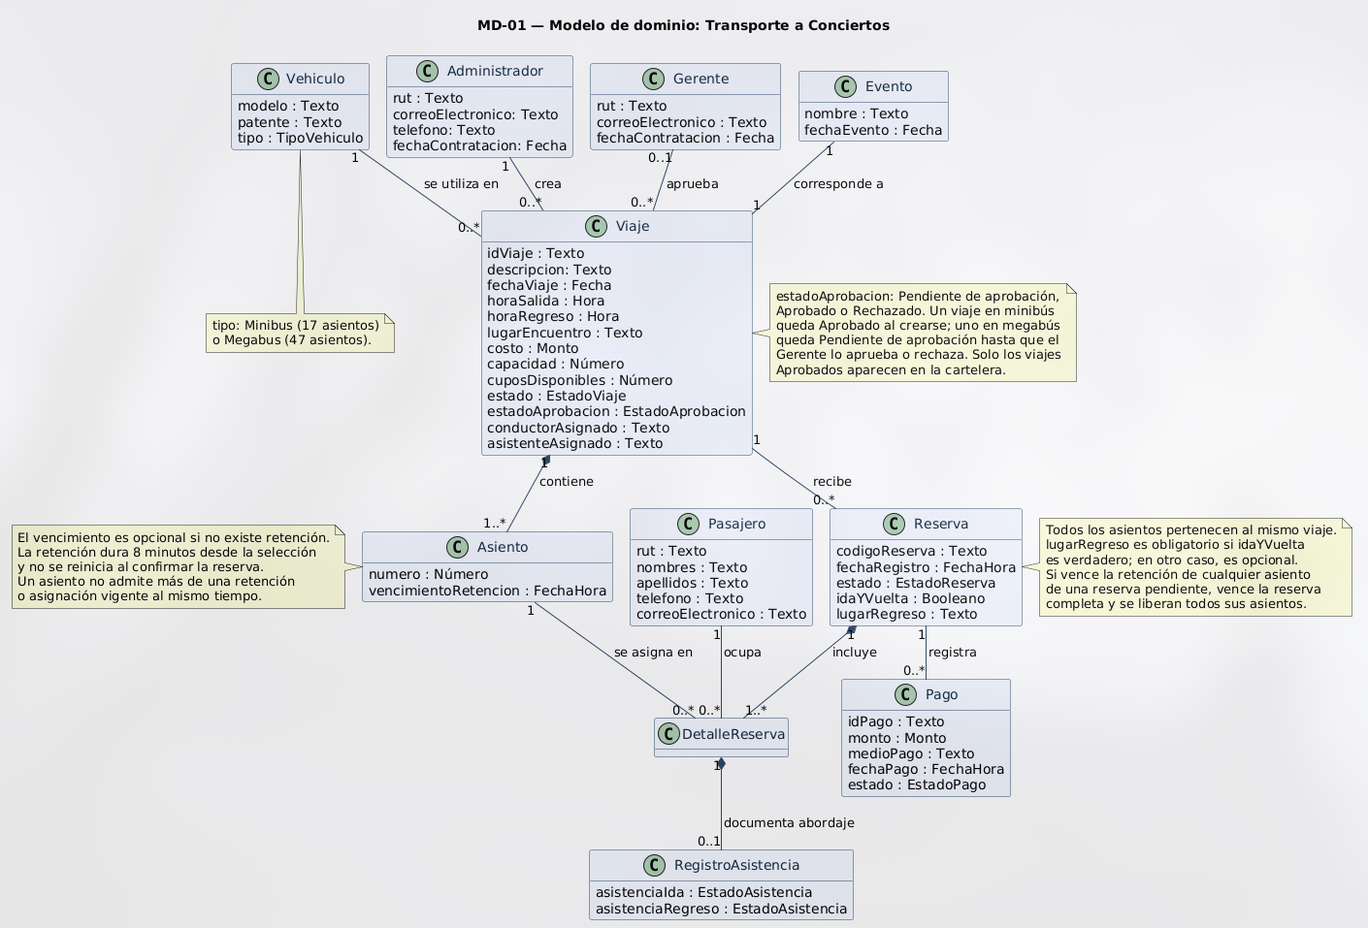
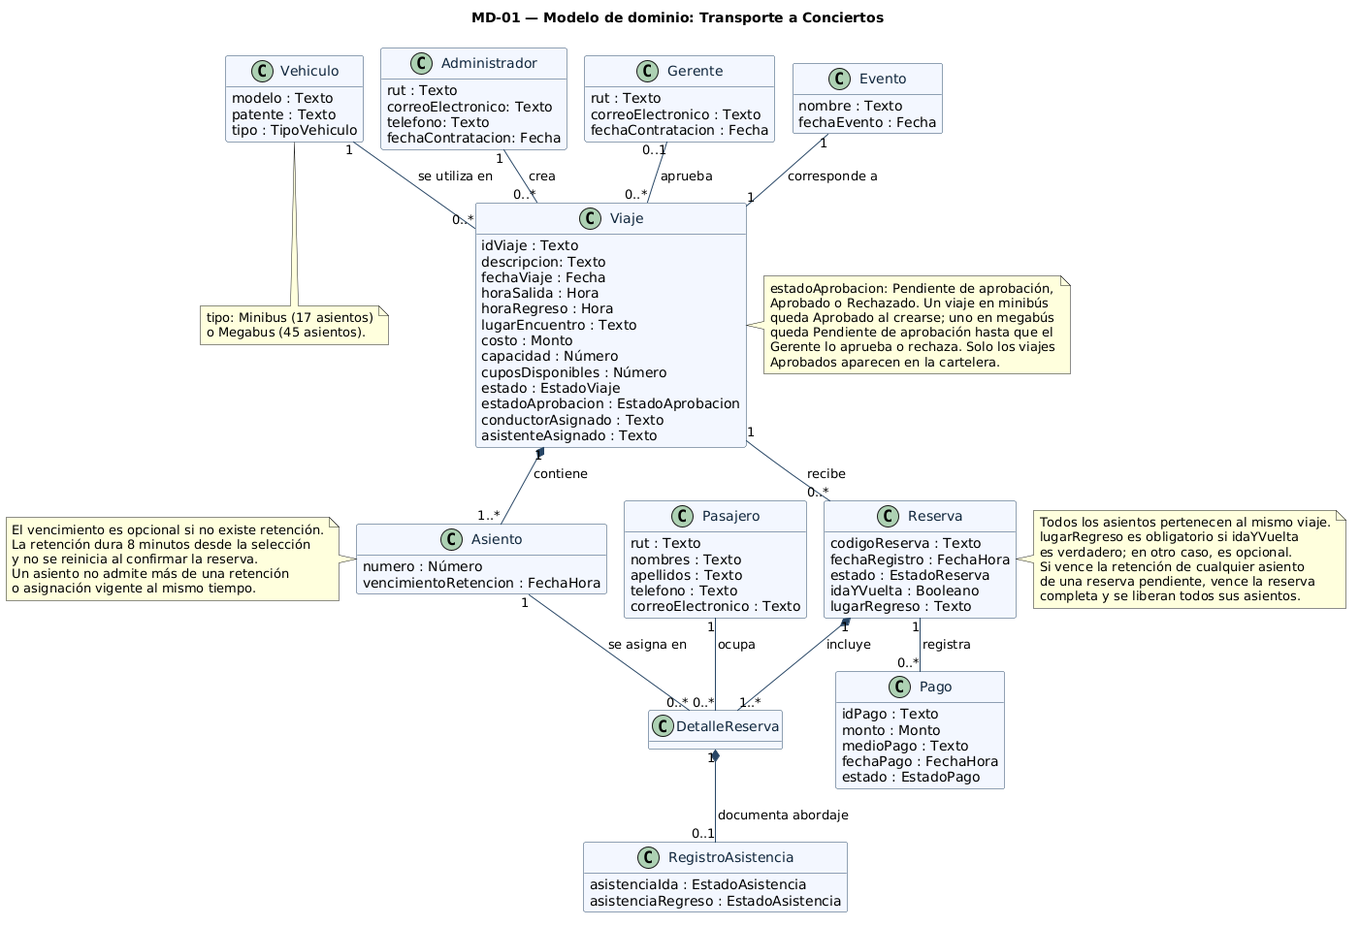
revision-y-trazabilidad

Changed region(s): [[0.0, 0.0, 1.0, 1.0], [0.5521, 0.273, 0.7974, 0.4247]]

diff --git a/12-trazabilidad.md b/12-trazabilidad.md
@@ -5,10 +5,10 @@
 La matriz de trazabilidad se elaboró tomando como referencia los requisitos de la Entrega 1 y los artefactos de especificación de la Entrega 2 publicados en el repositorio.
 
 1. **Cobertura de requisitos:** se incluye una fila por cada requisito de producto (`RP-01` a `RP-14`) y una fila adicional para el requisito derivado (`RP-D01`). Los requisitos de proyecto (`RY-01` y `RY-02`) no se incluyen porque corresponden a plazo y alcance, no a funcionalidades trazadas en esta matriz.
-2. **Vinculación con historias de usuario:** cada requisito se relaciona con la historia que expresa el objetivo de negocio correspondiente, usando los identificadores reales de `04-historias-usuario.md`. Las cinco historias (`HU-01` a `HU-05`) están cubiertas.
-3. **Vinculación con casos de uso:** se respeta la numeración publicada en `09-casos-de-uso.md`: `CU-01` (Consultar cartelera), `CU-02` (Reservar asiento), `CU-03` (Pagar reserva), `CU-04` (Crear viaje) y `CU-05` (Ver listado de pasajeros).
-4. **Vinculación con secuencias y estados:** se asigna `DSS-01` a la reserva y `DSS-02` al pago cuando el requisito participa de esos intercambios. `EST-01` se utiliza para transiciones del ciclo de vida de `Reserva` y `EST-02` para las de `Pago`; no se asocian diagramas de estado a clases que no tienen uno documentado.
-5. **Vinculación con clases del dominio:** se emplean exclusivamente los nombres definidos en `08-modelo-dominio.md` (`Evento`, `Vehiculo`, `Administrador`, `Viaje`, `Pasajero`, `Reserva`, `Pago` y `RegistroAsistencia`). Se incluyen las clases que participan conceptualmente en cada requisito, sin añadir nuevas clases.
+2. **Vinculación con historias de usuario:** cada requisito se relaciona con la historia que expresa el objetivo de negocio correspondiente, usando los identificadores reales de `04-historias-usuario.md`. Las seis historias (`HU-01` a `HU-06`) están cubiertas.
+3. **Vinculación con casos de uso:** se respeta la numeración publicada en `09-casos-de-uso.md`: `CU-01` (Consultar cartelera), `CU-02` (Reservar asiento), `CU-03` (Pagar reserva), `CU-04` (Crear viaje), `CU-05` (Ver listado de pasajeros), `CU-06` (Aprobar o rechazar viaje con megabús) y `CU-07` (Ver estado de aprobación de un viaje).
+4. **Vinculación con secuencias y estados:** se asigna `DSS-01` a la reserva, `DSS-02` al pago y `DSS-03` a la creación del viaje y su aprobación por el gerente. `EST-01` se utiliza para transiciones del ciclo de vida de `Reserva`, `EST-02` para las de `Pago` y `EST-03` para el ciclo de aprobación de `Viaje.estadoAprobacion`; no se asocian diagramas de estado a clases que no tienen uno documentado.
+5. **Vinculación con clases del dominio:** se emplean exclusivamente los nombres definidos en `08-modelo-dominio.md` (`Evento`, `Vehiculo`, `Administrador`, `Gerente`, `Viaje`, `Asiento`, `Pasajero`, `Reserva`, `DetalleReserva`, `Pago` y `RegistroAsistencia`). Se incluyen las clases que participan conceptualmente en cada requisito, sin añadir nuevas clases.
 6. **Ausencias justificadas:** el símbolo `—` indica que no existe una secuencia o un diagrama de estado aplicable al requisito dentro de los artefactos entregados. Las razones se explican en **Observaciones**, sin inventar diagramas faltantes.
 7. **Coherencia documental:** se priorizan las correspondencias que constan en los documentos de origen; las discrepancias entre ellos, como la responsabilidad de la nómina y la contabilización de cupos, se registran expresamente en lugar de ocultarlas.
 
@@ -16,31 +16,32 @@ La matriz de trazabilidad se elaboró tomando como referencia los requisitos de 
 
 | Requisito (Entrega 1) | Historia | Caso de uso | Secuencia | Estado | Clases del dominio |
 |---|---|---|---|---|---|
-| [RP-01](./03-requisitos.md) | [HU-03](./04-historias-usuario.md#hu-03-crear-un-viaje-en-el-sistema) | CU-04 | — | — | `Administrador`, `Viaje`, `Evento`, `Vehiculo` |
-| [RP-02](./03-requisitos.md) | [HU-01](./04-historias-usuario.md#hu-01-consultar-la-cartelera-de-viajes) | CU-01 | — | — | `Evento`, `Viaje` |
-| [RP-03](./03-requisitos.md) | [HU-02](./04-historias-usuario.md#hu-02-registrar-reserva-y-pasajero) | CU-02 | DSS-01 | EST-01 | `Viaje`, `Asiento`, `Reserva` |
-| [RP-04](./03-requisitos.md) | [HU-02](./04-historias-usuario.md#hu-02-registrar-reserva-y-pasajero) | CU-02 | DSS-01 | — | `Viaje`, `Reserva` |
-| [RP-05](./03-requisitos.md) | [HU-02](./04-historias-usuario.md#hu-02-registrar-reserva-y-pasajero) | CU-02 | DSS-01 | EST-01 | `Pasajero`, `Reserva`, `Viaje`, `Asiento` |
-| [RP-06](./03-requisitos.md) | [HU-05](./04-historias-usuario.md#hu-05-pagar-reserva) | CU-03 | DSS-02 | EST-01, EST-02 | `Reserva`, `Pago` |
-| [RP-07](./03-requisitos.md) | [HU-04](./04-historias-usuario.md#hu-04-visualizar-pasajeros) | CU-05 | — | — | `Viaje`, `Reserva`, `Pasajero` |
-| [RP-08](./03-requisitos.md) | [HU-04](./04-historias-usuario.md#hu-04-visualizar-pasajeros) | CU-05 | — | — | `Viaje`, `Reserva`, `Pasajero`, `RegistroAsistencia` |
-| [RP-09](./03-requisitos.md) | [HU-01](./04-historias-usuario.md#hu-01-consultar-la-cartelera-de-viajes) | CU-01 | — | — | `Viaje`, `Evento` |
-| [RP-10](./03-requisitos.md) | [HU-02](./04-historias-usuario.md#hu-02-registrar-reserva-y-pasajero) | CU-02 | DSS-01 | EST-01 | `Pasajero`, `Reserva`, `Viaje` |
-| [RP-11](./03-requisitos.md) | [HU-02](./04-historias-usuario.md#hu-02-registrar-reserva-y-pasajero) | CU-02 | DSS-01 | EST-01 | `Viaje`, `Asiento`, `Reserva` |
-| [RP-12](./03-requisitos.md) | [HU-02](./04-historias-usuario.md#hu-02-registrar-reserva-y-pasajero) | CU-02 | DSS-01 | EST-01 | `Pasajero`, `Reserva`, `Viaje` |
-| [RP-13](./03-requisitos.md) | [HU-05](./04-historias-usuario.md#hu-05-pagar-reserva) | CU-03 | DSS-02 | EST-01, EST-02 | `Reserva`, `Pago` |
-| [RP-14](./03-requisitos.md) | [HU-04](./04-historias-usuario.md#hu-04-visualizar-pasajeros) | CU-05 | — | — | `Viaje`, `Reserva`, `Pasajero`, `RegistroAsistencia` |
-| [RP-D01](./03-requisitos.md) | [HU-02](./04-historias-usuario.md#hu-02-registrar-reserva-y-pasajero) | CU-02 | DSS-01 | EST-01 | `Viaje`, `Asiento`, `Reserva` |
+| [RP-01](./03-requisitos.md) | [HU-03](./04-historias-usuario.md#hu-03--crear-un-viaje-en-el-sistema), [HU-06](./04-historias-usuario.md#hu-06--aprobar-o-rechazar-un-viaje-con-megabús) | CU-04, CU-06, CU-07 | DSS-03 | EST-03 | `Administrador`, `Gerente`, `Viaje`, `Evento`, `Vehiculo` |
+| [RP-02](./03-requisitos.md) | [HU-01](./04-historias-usuario.md#hu-01--consultar-la-cartelera-de-viajes) | CU-01 | — | — | `Evento`, `Viaje` |
+| [RP-03](./03-requisitos.md) | [HU-02](./04-historias-usuario.md#hu-02--registrar-reserva-y-pasajero) | CU-02 | DSS-01 | EST-01 | `Viaje`, `Asiento`, `Reserva`, `DetalleReserva` |
+| [RP-04](./03-requisitos.md) | [HU-02](./04-historias-usuario.md#hu-02--registrar-reserva-y-pasajero) | CU-02 | DSS-01 | — | `Viaje`, `Reserva` |
+| [RP-05](./03-requisitos.md) | [HU-02](./04-historias-usuario.md#hu-02--registrar-reserva-y-pasajero) | CU-02 | DSS-01 | EST-01 | `Pasajero`, `Reserva`, `DetalleReserva`, `Viaje`, `Asiento` |
+| [RP-06](./03-requisitos.md) | [HU-05](./04-historias-usuario.md#hu-05--pagar-reserva) | CU-03 | DSS-02 | EST-01, EST-02 | `Reserva`, `Pago` |
+| [RP-07](./03-requisitos.md) | [HU-04](./04-historias-usuario.md#hu-04--visualizar-pasajeros) | CU-05 | — | — | `Viaje`, `Reserva`, `Pasajero` |
+| [RP-08](./03-requisitos.md) | [HU-04](./04-historias-usuario.md#hu-04--visualizar-pasajeros) | CU-05 | — | — | `Viaje`, `Reserva`, `Pasajero`, `RegistroAsistencia` |
+| [RP-09](./03-requisitos.md) | [HU-01](./04-historias-usuario.md#hu-01--consultar-la-cartelera-de-viajes) | CU-01 | — | — | `Viaje`, `Evento` |
+| [RP-10](./03-requisitos.md) | [HU-02](./04-historias-usuario.md#hu-02--registrar-reserva-y-pasajero) | CU-02 | DSS-01 | EST-01 | `Pasajero`, `Reserva`, `DetalleReserva`, `Viaje` |
+| [RP-11](./03-requisitos.md) | [HU-02](./04-historias-usuario.md#hu-02--registrar-reserva-y-pasajero) | CU-02 | DSS-01 | EST-01 | `Viaje`, `Asiento`, `Reserva` |
+| [RP-12](./03-requisitos.md) | [HU-02](./04-historias-usuario.md#hu-02--registrar-reserva-y-pasajero) | CU-02 | DSS-01 | EST-01 | `Pasajero`, `Reserva`, `DetalleReserva`, `Viaje` |
+| [RP-13](./03-requisitos.md) | [HU-05](./04-historias-usuario.md#hu-05--pagar-reserva) | CU-03 | DSS-02 | EST-01, EST-02 | `Reserva`, `Pago` |
+| [RP-14](./03-requisitos.md) | [HU-04](./04-historias-usuario.md#hu-04--visualizar-pasajeros) | CU-05 | — | — | `Viaje`, `Reserva`, `Pasajero`, `RegistroAsistencia` |
+| [RP-D01](./03-requisitos.md) | [HU-02](./04-historias-usuario.md#hu-02--registrar-reserva-y-pasajero) | CU-02 | DSS-01 | EST-01 | `Viaje`, `Asiento`, `Reserva` |
 
 ## Observaciones
 
-1. **Cobertura.** La matriz considera los 14 requisitos de producto (`RP-01` a `RP-14`) y el requisito derivado (`RP-D01`) de la Entrega 1. Incluye todas las historias de usuario (`HU-01` a `HU-05`). Los requisitos de proyecto `RY-01` y `RY-02` no se incluyen como filas porque la pauta solicita una fila por requisito `RP-xx`.
-2. **Identificadores de casos de uso.** Se usa la numeración de `09-casos-de-uso.md`: `CU-01` (Consultar cartelera), `CU-02` (Reservar asiento), `CU-03` (Pagar reserva), `CU-04` (Crear viaje) y `CU-05` (Ver listado de pasajeros). Los casos de uso se enlazan a las historias correspondientes sin renumerarlos.
-3. **Secuencias.** `DSS-01` detalla `HU-02` / `CU-02` e incluye la validación del asiento, su retención temporal, el registro del pasajero y la solicitud de notificación al servicio externo de correo. `DSS-02` representa `HU-05` / `CU-03` e incluye la respuesta de la pasarela de pago en los escenarios aprobado, aprobación tardía con solicitud y confirmación de devolución, y rechazado/cancelado, además del reintento y del seguimiento de las retenciones por asiento. En `10-diagramas-secuencia.md`, la referencia de `DSS-02` corresponde a `CU-03`, alineándose con la numeración oficial de `09-casos-de-uso.md`.
-4. **Filas sin secuencia.** `RP-01`, `RP-02`, `RP-07`, `RP-08`, `RP-09` y `RP-14` carecen de DSS específico: las dos secuencias entregadas modelan únicamente la reserva con correo externo y el pago con pasarela externa. Esas actividades están cubiertas por sus historias, casos de uso y clases del dominio.
-5. **Filas sin estado.** `RP-01`, `RP-02`, `RP-04`, `RP-07`, `RP-08`, `RP-09` y `RP-14` no se asocian directamente a una transición de los diagramas actuales: `EST-01` modela el ciclo de vida de `Reserva` y `EST-02` el de `Pago`. En particular, el rechazo inicial por falta de cupo (`RP-04`) ocurre antes de registrar una reserva, por lo que no genera una transición en `EST-01`. La generación de nóminas y el registro de asistencia no tienen diagramas de estado propios.
+1. **Cobertura.** La matriz considera los 14 requisitos de producto (`RP-01` a `RP-14`) y el requisito derivado (`RP-D01`) de la Entrega 1. Incluye las seis historias de usuario (`HU-01` a `HU-06`). `HU-06` se asocia a `RP-01` conforme a la ficha de la historia, que la vincula a la creación y publicación de viajes; no se añadieron requisitos nuevos. Los requisitos de proyecto `RY-01` y `RY-02` no se incluyen como filas porque la pauta solicita una fila por requisito `RP-xx`.
+2. **Identificadores de casos de uso.** Se usa la numeración de `09-casos-de-uso.md`: `CU-01` (Consultar cartelera), `CU-02` (Reservar asiento), `CU-03` (Pagar reserva), `CU-04` (Crear viaje), `CU-05` (Ver listado de pasajeros), `CU-06` (Aprobar o rechazar viaje con megabús) y `CU-07` (Ver estado de aprobación de un viaje). Los casos de uso se enlazan a las historias correspondientes sin renumerarlos.
+3. **Secuencias.** `DSS-01` detalla `HU-02` / `CU-02` e incluye la validación del asiento, su retención temporal, el registro del pasajero y la solicitud de notificación al servicio externo de correo. `DSS-02` representa `HU-05` / `CU-03` e incluye la respuesta de la pasarela de pago en los escenarios aprobado, aprobación tardía con solicitud y confirmación de devolución, y rechazado/cancelado, además del reintento y del seguimiento de las retenciones por asiento. `DSS-03` representa `HU-03` y `HU-06` con `CU-04`, `CU-06` y `CU-07`: registra el viaje con el `alt` de minibús (17 asientos, publicado) o megabús (45 asientos, pendiente de aprobación) y la decisión del gerente. En `10-diagramas-secuencia.md`, la referencia de `DSS-02` corresponde a `CU-03`, alineándose con la numeración oficial de `09-casos-de-uso.md`.
+4. **Filas sin secuencia.** `RP-02`, `RP-07`, `RP-08`, `RP-09` y `RP-14` carecen de DSS específico: las secuencias entregadas modelan la reserva con correo externo, el pago con pasarela externa y la creación/aprobación del viaje. Esas actividades están cubiertas por sus historias, casos de uso y clases del dominio. `RP-01` sí queda cubierto por `DSS-03`.
+5. **Filas sin estado.** `RP-02`, `RP-04`, `RP-07`, `RP-08`, `RP-09` y `RP-14` no se asocian directamente a una transición de los diagramas actuales: `EST-01` modela el ciclo de vida de `Reserva`, `EST-02` el de `Pago` y `EST-03` el de `Viaje.estadoAprobacion`. En particular, el rechazo inicial por falta de cupo (`RP-04`) ocurre antes de registrar una reserva, por lo que no genera una transición en `EST-01`. La generación de nóminas y el registro de asistencia no tienen diagramas de estado propios. `RP-01` queda cubierto por `EST-03` en lo relativo a la aprobación del viaje con megabús.
 6. **Control de pasajeros.** `HU-04` y `CU-05` asignan la visualización de pasajeros al `Administrador`, y en la revisión del 2026-11-18 se alinearon `RP-08` y `RP-14` a esa misma responsabilidad. El asistente de viaje es un participante del proceso de negocio, pero no un rol independiente del sistema en esta etapa: el Administrador concentra la gestión de nómina y el registro de abordaje.
 7. **Reservas y disponibilidad de cupos.** `DSS-01` retiene temporalmente un asiento y `DSS-02` confirma el pago. `EST-01` representa la reserva `Pendiente de pago`, `Pagada` o `Vencida`, y su liberación tras 8 minutos sin aprobación. Para cumplir `RP-03`, `RP-11` y `RP-D01`, una retención vigente impide que otro pasajero ocupe el mismo cupo; al aprobarse el pago, la retención se vuelve definitiva sin descontar una segunda vez el cupo. Esta regla queda explícitamente alineada en `EST-01`, `DSS-01`, `DSS-02` y los criterios de aceptación de `HU-05`.
-8. **Correspondencia entre mensajes y estados.** `DSS-01` origina la creación de la reserva pendiente de pago, representada en `EST-01` por `registrarReserva`; `DSS-02` comunica la aprobación, rechazo o cancelación del pago, representados por `pagoAprobado`, `pagoRechazado` y `pagoCancelado` en `EST-01`, y por `resultadoPasarela` / `cancelacionPago` en `EST-02`. La aprobación tardía y la devolución se representan por `solicitarDevolucion` — que mantiene el pago en `Aprobado` — y `confirmarDevolucion`, que lo lleva a `Devuelto` en `EST-02`. `vencerRetencion` representa la expiración de los 8 minutos. Los mensajes descriptivos de los DSS y los eventos de estado usan distinto nivel de detalle, pero describen los mismos acontecimientos del negocio.
-9. **Clases y alcance.** Las clases nombradas corresponden al modelo de dominio `MD-01`: `Evento`, `Vehiculo`, `Viaje`, `Asiento`, `Administrador`, `Pasajero`, `Reserva`, `Pago` y `RegistroAsistencia`. `Asiento` representa el asiento físico que ocupa la reserva y que consume un cupo del viaje (máximo 17). `RegistroAsistencia` respalda la funcionalidad de `HU-04` aunque no cuenta con un diagrama de estados propio. Los requisitos no funcionales de uso en móviles (`RP-09` y `RP-10`) se vinculan a las mismas clases y casos de uso que las funcionalidades cuya interfaz condicionan; no constituyen por sí mismos estados del negocio.
-10. **Concordancia de los artefactos originales.** Las multiplicidades del modelo de dominio (`08-modelo-dominio.md`) se encuentran alineadas con el archivo UML fuente (`diagramas/modelo-dominio.puml`) empleando multiplicidades completas (`1..*`, `0..*`), la composición `Viaje–Asiento`, la relación `Asiento–Reserva` y la composición de `RegistroAsistencia`. La matriz de trazabilidad documenta la correspondencia íntegra entre requisitos, historias, casos de uso, secuencias, estados y clases del dominio.
+8. **Correspondencia entre mensajes y estados.** `DSS-01` origina la creación de la reserva pendiente de pago, representada en `EST-01` por `registrarReserva`; `DSS-02` comunica la aprobación, rechazo o cancelación del pago, representados por `pagoAprobado`, `pagoRechazado` y `pagoCancelado` en `EST-01`, y por `resultadoPasarela` / `cancelacionPago` en `EST-02`. La aprobación tardía y la devolución se representan por `solicitarDevolucion` — que mantiene el pago en `Aprobado` — y `confirmarDevolucion`, que lo lleva a `Devuelto` en `EST-02`. `vencerRetencion` representa la expiración de los 8 minutos. En el ciclo de aprobación, `DSS-03` registra el viaje y `EST-03` representa la transición `registrarViaje` a `Pendiente` (megabús) o el registro directo `Aprobado` (minibús), `aprobarViaje` a `Aprobado` y `rechazarViaje` a `Rechazado`; un segundo intento de decisión no cambia el estado. Los mensajes descriptivos de los DSS y los eventos de estado usan distinto nivel de detalle, pero describen los mismos acontecimientos del negocio.
+9. **Clases y alcance.** Las clases nombradas corresponden al modelo de dominio `MD-01`: `Evento`, `Vehiculo`, `Viaje`, `Asiento`, `Administrador`, `Gerente`, `Pasajero`, `Reserva`, `DetalleReserva`, `Pago` y `RegistroAsistencia`. `Asiento` representa el asiento físico que ocupa la reserva y que consume un cupo del viaje (17 en minibús o 45 en megabús, según el tipo de vehículo indicado en `HU-03`, `HU-06`, `DSS-03` y `EST-03`). `DetalleReserva` es el vínculo que identifica el asiento y el pasajero dentro de una reserva. `Gerente` es el rol que aprueba o rechaza los viajes con megabús (`HU-06`, `CU-06`, `EST-03`). `RegistroAsistencia` respalda la funcionalidad de `HU-04` aunque no cuenta con un diagrama de estados propio. Los requisitos no funcionales de uso en móviles (`RP-09` y `RP-10`) se vinculan a las mismas clases y casos de uso que las funcionalidades cuya interfaz condicionan; no constituyen por sí mismos estados del negocio.
+10. **Concordancia de los artefactos originales.** Las multiplicidades del modelo de dominio (`08-modelo-dominio.md`) se encuentran alineadas con el archivo UML fuente (`diagramas/modelo-dominio.puml`) empleando multiplicidades completas (`1..*`, `0..*`), las composiciones `Viaje–Asiento`, `Reserva–DetalleReserva` y `DetalleReserva–RegistroAsistencia`, y la asociación `Gerente–Viaje`. La matriz de trazabilidad documenta la correspondencia íntegra entre requisitos, historias, casos de uso, secuencias, estados y clases del dominio.
+11. **Capacidad del megabús.** Se registra una discrepancia entre artefactos: `08-modelo-dominio.md` describe el megabús con **47 asientos**, mientras que `HU-03`, `HU-06`, `DSS-03` y `EST-03` indican **45 asientos**. La matriz refleja el valor de las historias y diagramas (45); la corrección del modelo de dominio queda pendiente y fuera del alcance de esta actualización.

diff --git a/08-modelo-dominio.md b/08-modelo-dominio.md
@@ -11,7 +11,7 @@ Archivo fuente: [`./diagramas/modelo-dominio.puml`](./diagramas/modelo-dominio.p
 | Clase | Qué representa en el negocio | Atributos |
 |---|---|---|
 | **Evento** | Concierto o evento al que se dirige el transporte. | `nombre: Texto`, `fechaEvento: Fecha` |
-| **Vehiculo** | Vehículo utilizado para prestar el servicio de traslado. Puede ser un minibús (17 asientos) o un megabús (47 asientos). | `modelo: Texto`, `patente: Texto`, `tipo: TipoVehiculo` |
+| **Vehiculo** | Vehículo utilizado para prestar el servicio de traslado. Puede ser un minibús (17 asientos) o un megabús (45 asientos). | `modelo: Texto`, `patente: Texto`, `tipo: TipoVehiculo` |
 | **Administrador** | Persona responsable de crear los viajes ofrecidos. | `rut: Texto`, `correoElectronico: Texto`, `telefono: Texto`, `fechaContratacion: Fecha` |
 | **Gerente** | Persona de la compañía que aprueba o rechaza los viajes creados en megabús. | `rut: Texto`, `correoElectronico: Texto`, `fechaContratacion: Fecha` |
 | **Viaje** | Traslado organizado hacia un evento, con su información de salida, regreso y disponibilidad. | `idViaje: Texto`, `descripcion: Texto`, `fechaViaje: Fecha`, `horaSalida: Hora`, `horaRegreso: Hora`, `lugarEncuentro: Texto`, `costo: Monto`, `capacidad: Número`, `cuposDisponibles: Número`, `estado: EstadoViaje`, `estadoAprobacion: EstadoAprobacion`, `conductorAsignado: Texto`, `asistenteAsignado: Texto` |
@@ -28,7 +28,7 @@ Archivo fuente: [`./diagramas/modelo-dominio.puml`](./diagramas/modelo-dominio.p
 |---|---|---|---|
 | **corresponde a** | Evento – Viaje | `1` – `1` | El viaje corresponde al evento al que se transportará a los pasajeros. |
 | **se utiliza en** | Vehiculo – Viaje | Cada viaje: `1` vehículo; cada vehículo: `0..*` viajes | El viaje utiliza un vehículo para realizar el traslado; un mismo vehículo puede utilizarse en varios viajes. El tipo del vehículo determina la capacidad del viaje y si requiere aprobación. |
-| **contiene** | Viaje – Asiento | Cada viaje: `1..*` asientos; cada asiento: `1` viaje | Composición: cada viaje contiene sus asientos físicos (17 en minibús o 47 en megabús, según el vehículo) y un asiento no existe sin su viaje. |
+| **contiene** | Viaje – Asiento | Cada viaje: `1..*` asientos; cada asiento: `1` viaje | Composición: cada viaje contiene sus asientos físicos (17 en minibús o 45 en megabús, según el vehículo) y un asiento no existe sin su viaje. |
 | **incluye** | Reserva – DetalleReserva | Cada reserva: `1..*` detalles; cada detalle: `1` reserva | Composición: cada detalle pertenece a una reserva e identifica un asiento y su pasajero. |
 | **se asigna en** | Asiento – DetalleReserva | Cada asiento: `0..*` detalles históricos; cada detalle: `1` asiento | El detalle identifica un asiento del mismo viaje que la reserva y conserva su asignación histórica. Un asiento no admite más de una retención o asignación vigente al mismo tiempo. |
 | **crea** | Administrador – Viaje | Cada viaje: `1` administrador; cada administrador: `0..*` viajes | El administrador crea y registra viajes para publicarlos. |
@@ -41,11 +41,11 @@ Archivo fuente: [`./diagramas/modelo-dominio.puml`](./diagramas/modelo-dominio.p
 ## Decisiones de modelado
 
 - **Evento y Viaje se modelan de forma separada:** el evento corresponde al concierto y el viaje al traslado ofrecido hacia él.
-- **Tipo de vehículo:** `Vehiculo.tipo` distingue entre minibús (17 asientos) y megabús (47 asientos). Reemplaza al atributo `capacidadPasajeros`, porque la capacidad se deduce del tipo.
+- **Tipo de vehículo:** `Vehiculo.tipo` distingue entre minibús (17 asientos) y megabús (45 asientos). Reemplaza al atributo `capacidadPasajeros`, porque la capacidad se deduce del tipo.
 - **Aprobación de viajes en megabús:** todo viaje tiene un `estadoAprobacion`. Un viaje en minibús queda `Aprobado` al crearse, sin intervención del gerente. Un viaje en megabús queda `Pendiente` hasta que el gerente lo aprueba (`Aprobado`) o lo rechaza (`Rechazado`). El estado es visible para el administrador.
 - **Gerente se modela como clase:** como el administrador, registra datos propios (RUT, correo electrónico y fecha de contratación) y es quien decide sobre los viajes en megabús mediante la asociación `aprueba`.
 - **`estadoAprobacion` es independiente de `estado`:** `estado` (`EstadoViaje`) describe el ciclo de vida del viaje, mientras que `estadoAprobacion` describe el resultado de la revisión del gerente.
-- **Asiento se modela como clase independiente y composición:** cada viaje contiene asientos físicos numerados y un asiento no existe sin su viaje (`*--`). Cada asiento consume un cupo y la capacidad máxima del viaje es de 17 pasajeros/asientos en minibús o 47 en megabús. La disponibilidad considera tanto las retenciones temporales como las asignaciones vigentes, conservando el histórico. Un asiento no admite más de una retención o asignación vigente al mismo tiempo.
+- **Asiento se modela como clase independiente y composición:** cada viaje contiene asientos físicos numerados y un asiento no existe sin su viaje (`*--`). Cada asiento consume un cupo y la capacidad máxima del viaje es de 17 pasajeros/asientos en minibús o 45 en megabús. La disponibilidad considera tanto las retenciones temporales como las asignaciones vigentes, conservando el histórico. Un asiento no admite más de una retención o asignación vigente al mismo tiempo.
 - **Reserva agrupa sus asientos mediante DetalleReserva:** una reserva contiene uno o varios detalles, todos correspondientes a asientos del mismo viaje, con un pasajero identificado por detalle. La composición `Reserva–DetalleReserva` expresa que un detalle pertenece a su reserva y no existe de manera autónoma.
 - **La retención pertenece a Asiento:** `vencimientoRetencion` se guarda en el asiento y es opcional cuando no existe retención. El plazo es de 8 minutos desde la selección y no se reinicia al confirmar la reserva. Si vence cualquier retención de una reserva pendiente, vence toda la reserva y se liberan todos sus asientos.
 - **La modalidad y el lugar de regreso pertenecen a Reserva:** `lugarRegreso` lo ingresa el pasajero y es obligatorio cuando `idaYVuelta` es verdadero; en otro caso, es opcional.

diff --git a/09-casos-de-uso.md b/09-casos-de-uso.md
@@ -10,7 +10,7 @@
 | Servicio de correo | Sistema externo | Servicio que envía al pasajero la confirmación de su reserva. |
 
 ## Diagrama de casos de uso
-![Casos de uso](diagramas/casos-de-uso2.png)
+![Casos de uso](diagramas/casos-de-uso.png)
 
 Archivo fuente: [`./diagramas/casos-de-uso.drawio`](./diagramas/casos-de-uso.drawio)
 
